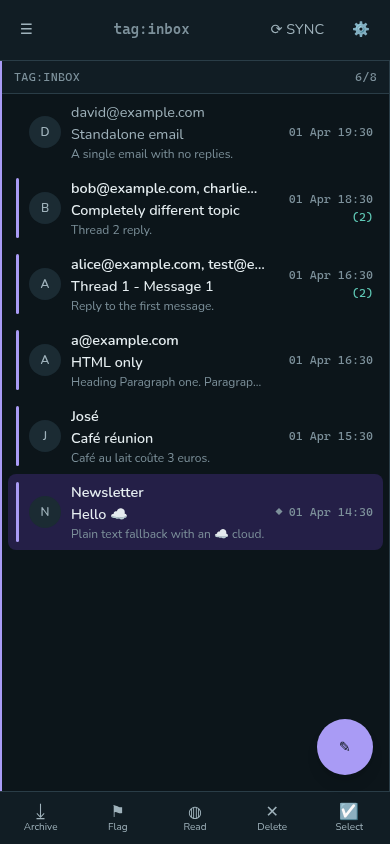
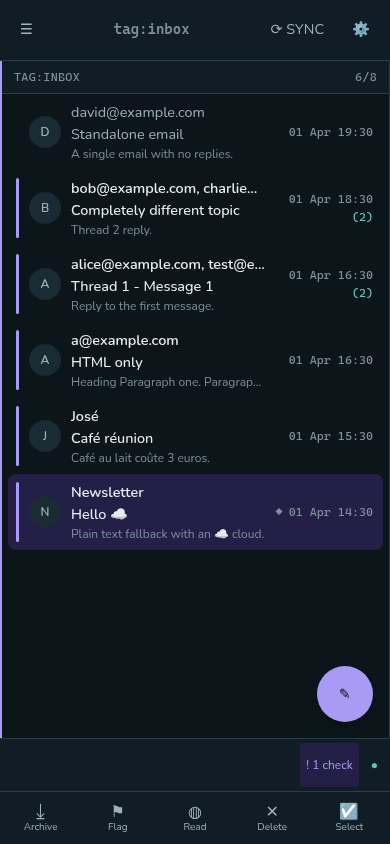
Write down what filing does, and the bugs the desktop found
The parity page and the operations guide both still claimed archiving and
deleting were local-only, which stopped being true when the `pre-new` hook
landed. The changelog had nothing about the four bugs that only appeared once
the desktop client was built and looked at — three of which no suite in this
repo could have caught, because they need a real settings file, a real phone,
or a real IMAP UID.

Changed region(s): [[0.7692, 0.7701, 0.9538, 0.955], [0.9846, 0.8626, 1.0, 0.9242], [0.0, 0.8626, 0.0308, 0.9242]]

diff --git a/docs/content/parity.md b/docs/content/parity.md
@@ -45,12 +45,13 @@ felt, not by how hard it is.
 | **Address book and autocomplete** | **Here**. `ecr account sync-dav` fetches CardDAV into a vdir and those contacts join completion, after the addresses gathered from mail rather than above them |
 | **Calendar and invitations** | **Here**. An invitation is rendered where the message is — summary, time, location, organiser — a cancellation says so, and accept/decline/tentative sends a conforming `METHOD:REPLY`. A reply to one occurrence of a repeating event needs a `RECURRENCE-ID` and is refused without one, because a reply without it answers the whole series |
 | **Junk handling** | Partly. A `spam` tag exists and is excluded from search; there is no classifier and no *report as spam* |
-| **Folder management** | Partly. A message can be **moved** between maildirs — a rename into the destination's `cur/`, refusing a folder that does not exist rather than creating one from a typo. Creating, renaming and subscribing to IMAP folders is still mbsync's job |
+| **Folder management** | Partly. Tags and folders are kept in step: a `pre-new` hook files `deleted` into Trash and `spam` into Junk, and archiving moves a message out of the inbox folder — so archiving and deleting in ecr now reach the *server* on the next sync, which they did not before. Gmail is the exception and deliberately so: its archive is `[Gmail]/All Mail`, a copy of every message ecr does not sync, so there is nowhere to file to and archiving stays local. Creating, renaming and subscribing to IMAP folders is still mbsync's job |
+| **Marks reaching the server** | `read`, `flagged` and `replied` always did — notmuch keeps them as maildir flags and mbsync sends them. `archive` and `delete` had no flag to live in and stopped at a local tag; they file now, and `ecr doctor` says which of the two states an account is in rather than leaving it to be discovered |
 | **Unified inbox** | **Here**. An *All inboxes* row is pinned above the accounts, carrying its own count. Per-account colouring is deliberately absent: the palette's three accents mean proved, owed and blocking, and spending them on identity makes every row look like a status it does not have |
 | **Vacation responder** | **Here**, for a managed setup. `ecr account vacation on`. It will not answer mailing lists, bounces, other autoresponders, your own addresses, mail you were only Bcc'd on, or the same person twice in a week — that refusal list is the feature, and it is what a responder without one costs everybody you are subscribed with |
 | **OpenPGP** | **Here** for reading, through your own `gpg`. Signatures are verified and encrypted mail is opened, with six states rather than a padlock — `unknown` is the ordinary condition of mail from a stranger and is not shown as broken. ecr keeps no keys: GnuPG already has the keyring, the agent and your web of trust, and a second copy of a private key is a worse thing than a missing feature. Signing and encrypting outgoing mail is here too — three toggles in the composer, shown only when the server has a gpg. S/MIME is missing |
 | **Read receipts** | Deliberately missing. Requesting one is a tracker with a standards document |
-| **Offline** | Partly. The browser client now **boots** without a network and shows its own account of the outage rather than the browser's error page. It caches the application and deliberately no mail: a cached thread list looks current and is not, and every API response is somebody's mail written to disk in the browser profile. Reading mail offline is the desktop and Android clients' job — their server is on the same device and its maildir is local |
+| **Offline** | Partly, and the browser is the least of it — the desktop and Android clients hold a server address rather than a cache, so an unreachable server means no mail there whatever the browser does. The browser client now **boots** without a network and shows its own account of the outage rather than the browser's error page. It caches the application and deliberately no mail: a cached thread list looks current and is not, and every API response is somebody's mail written to disk in the browser profile. Reading mail offline is the desktop and Android clients' job — their server is on the same device and its maildir is local |
 | **Print and export** | Missing. The maildir is the export, and it is a better one than any client's |
 
 ## What is deliberately not planned

diff --git a/CHANGELOG.md b/CHANGELOG.md
@@ -77,11 +77,37 @@ release; both are frozen at v1.0.0.
   the outage rather than the browser's error page. It caches the application
   and deliberately no mail: a cached thread list looks current and is not, and
   every API response is somebody's mail written to disk in the browser profile.
+- **Archiving and deleting reach the server.** A generated `pre-new` hook keeps
+  folders in step with tags — `deleted` into Trash, `spam` into Junk, and out of
+  the inbox folder when `inbox` is gone — so filing in ecr is no longer a local
+  tag the server never hears about. Driven by tags rather than by what ecr did,
+  so `notmuch tag` at a shell files the same way. New accounts get
+  `expunge = "far"`; existing ones are never rewritten.
+- **`ecr doctor` says what actually crosses on sync**, including for a
+  self-managed setup — `synchronize_flags` is where "nothing crosses at all"
+  hides, and it was not being read.
 - [Parity](https://www.lokeshmohanty.in/ecr/parity/) — what ecr has and does not
   have against Thunderbird, Gmail and Outlook, and what is deliberately absent.
 
 ### Fixed
 
+- **The status bar painted over itself.** Key hints and the settings message
+  were drawn on top of each other, unreadable, whenever both were on screen at
+  a desktop width. No suite could catch it — every visual state has a healthy
+  settings file, so the two cells never competed.
+- **A retired package read as a typo.** `[packages.vdirsyncer]` and
+  `[packages.imapnotify]` — sections an earlier ecr told you to write — were
+  reported as *unknown*, so the complaint never went away and the fix was to
+  check the spelling of a correctly spelled word. They now name what replaced
+  them and say to delete the section.
+- **Moving a message between maildirs kept its `,U=` infix**, which encodes an
+  IMAP UID belonging to the folder it came *from*. The isync manual requires
+  an MUA to rename on move; carrying it across corrupts the sync state for
+  both folders.
+- **`just android` blamed the cable for a signature mismatch.** An
+  `INSTALL_FAILED_UPDATE_INCOMPATIBLE` — what a phone carrying a release build
+  answers to a debug one — was retried five times and reported as "the device
+  is not staying connected", with the real reason four screens up the log.
 - `ServerSettings` resolves through the same `Env` as everything else rather
   than `dirs::config_dir()`, which answered the real `~/.config` however `HOME`
   was pointed.

diff --git a/docs/content/operations.md b/docs/content/operations.md
@@ -222,6 +222,33 @@ it goes and can be taken back. Who has been told is recorded in
 `~/.local/state/ecr/vacation-sent.json`; `ecr account vacation forget` clears
 it, which answers everybody again.
 
+### What reaches the server when you file something
+
+Three of the five marks cross by themselves. notmuch keeps `unread`, `flagged`
+and `replied` as **maildir flags** — `S`, `F` and `R` on the filename — and
+mbsync sends those as `\Seen`, `\Flagged` and `\Answered`.
+
+`inbox` and `deleted` have no flag to live in, so until something moves the
+file they stop at a local tag: the message stays in the server's inbox and
+comes back on every other device. A generated **`pre-new` hook** closes that.
+It files `deleted` into Trash and `spam` into Junk, and moves anything no
+longer tagged `inbox` out of the inbox folder, before `notmuch new` scans — so
+the same run reindexes everything at its new path.
+
+It is driven by **tags**, not by what ecr did, so a `notmuch tag` typed at a
+shell files exactly the same way the client does.
+
+New accounts are created with `expunge = "far"`, which is what makes the move
+take effect on the far side. Existing accounts are never rewritten: nobody's
+setup starts removing mail from a server because they upgraded. `ecr doctor`
+reports which of the two states each account is in, and
+`ecr account file --dry-run` shows what would move without moving it.
+
+**Gmail is the exception.** Its archive is `[Gmail]/All Mail`, which holds a
+copy of every message in the account and which ecr deliberately does not sync —
+so there is nowhere to file an archived message *to*, and archiving on Gmail
+stays local. Deleting still files into `[Gmail]/Trash`.
+
 ## Signed and encrypted mail
 
 ecr **keeps no keys**. Signatures are checked and encrypted mail is opened by
